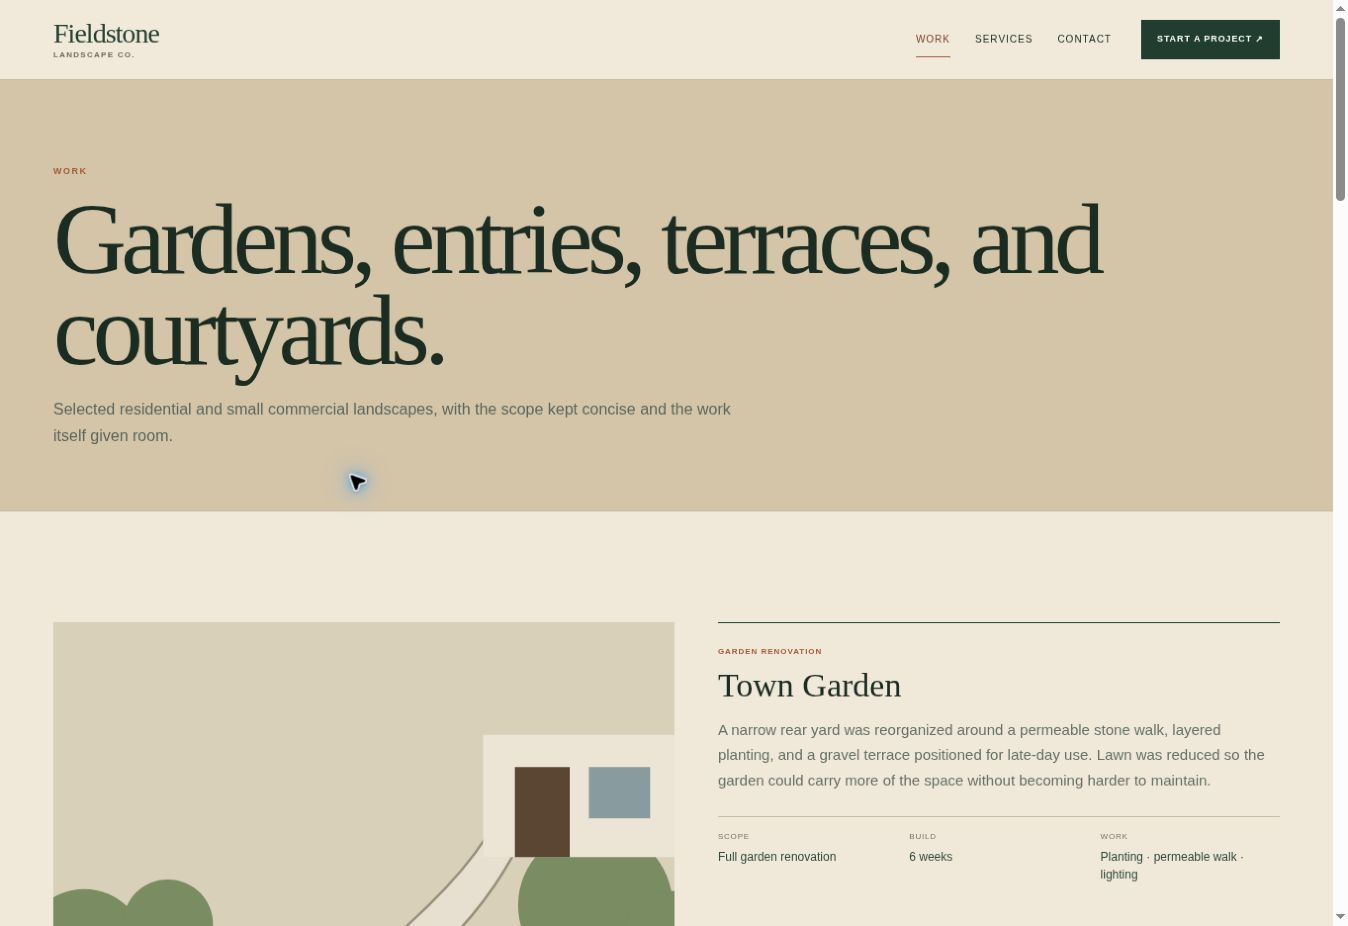
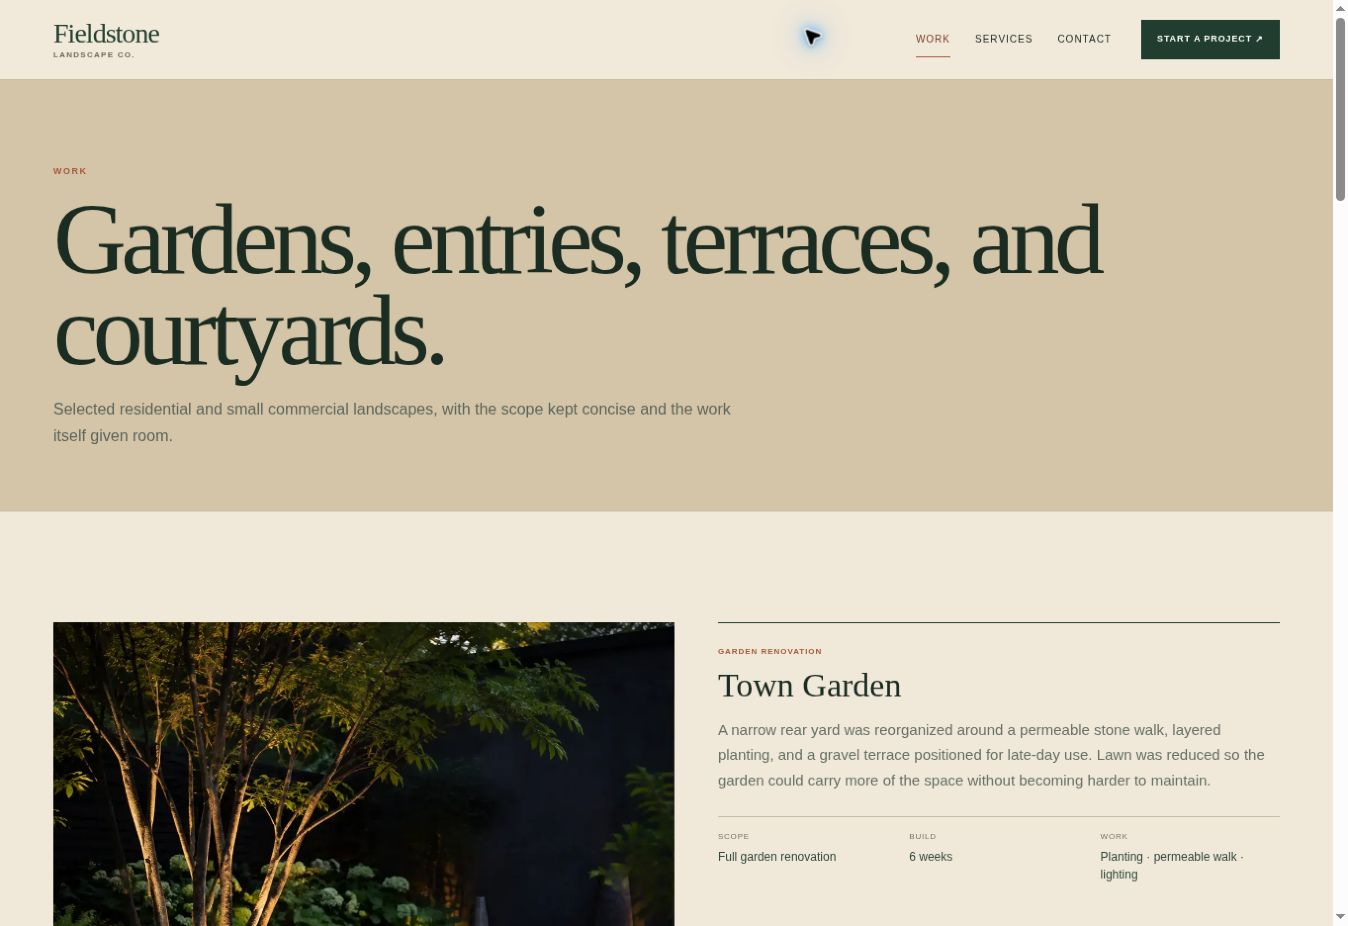
Refresh Fieldstone project imagery

Changed region(s): [[0.0312, 0.6652, 0.4985, 1.0], [0.2493, 0.4838, 0.2804, 0.5443], [0.592, 0.0302, 0.6231, 0.0605]]

diff --git a/projects/fieldstone-landscape/work.html b/projects/fieldstone-landscape/work.html
@@ -11,12 +11,12 @@
 </div></header>
 <main id="main-content">
 <section class="page-hero"><div class="wrap"><div class="eyebrow">Work</div><h1>Gardens, entries, terraces, and courtyards.</h1><p>Selected residential and small commercial landscapes, with the scope kept concise and the work itself given room.</p></div></section>
-<section class="section"><div class="wrap work-list"><article class="work-card" id="town-garden"><figure><img src="assets/garden.svg" alt="Layered town garden with a curving walk"></figure><div class="copy"><small>Garden renovation</small><h2>Town Garden</h2><p>A narrow rear yard was reorganized around a permeable stone walk, layered planting, and a gravel terrace positioned for late-day use. Lawn was reduced so the garden could carry more of the space without becoming harder to maintain.</p>
-<dl class="project-facts"><div><dt>Scope</dt><dd>Full garden renovation</dd></div><div><dt>Build</dt><dd>6 weeks</dd></div><div><dt>Work</dt><dd>Planting · permeable walk · lighting</dd></div></dl></div></article><article class="work-card" id="stone-entry"><figure><img src="assets/stone.svg" alt="Stone entry steps through green planting"></figure><div class="copy"><small>Entry + retaining</small><h2>Stone Entry</h2><p>A sloped front approach was rebuilt with broad stone steps, a low retaining edge, and planting that softens the grade without hiding the architecture. Low-voltage lighting carries the entry through evening use.</p>
-<dl class="project-facts"><div><dt>Scope</dt><dd>Entry + retaining</dd></div><div><dt>Build</dt><dd>4 weeks</dd></div><div><dt>Work</dt><dd>Stone steps · wall · lighting</dd></div></dl></div></article><article class="work-card" id="hill-terrace"><figure><img src="assets/terrace.svg" alt="Terraced garden across a sloped property"></figure><div class="copy"><small>Terrace + planting</small><h2>Hill Terrace</h2><p>Three garden levels turn a difficult slope into a sequence of usable spaces. Stone connections, loose grasses, and a compact dining terrace keep the grade visible while making it easier to move through.</p>
-<dl class="project-facts"><div><dt>Scope</dt><dd>Terrace + planting</dd></div><div><dt>Build</dt><dd>7 weeks</dd></div><div><dt>Work</dt><dd>Terraces · planting · drainage</dd></div></dl></div></article><article class="work-card" id="studio-court"><figure><img src="assets/stone.svg" alt="Compact commercial courtyard with stonework"></figure><div class="copy"><small>Commercial courtyard</small><h2>Studio Court</h2><p>A small office courtyard was simplified into a durable arrival space with restrained paving, low-maintenance planting, and a clearer route from street to entrance. The palette is quiet enough to sit behind the building rather than compete with it.</p>
-<dl class="project-facts"><div><dt>Scope</dt><dd>Commercial courtyard</dd></div><div><dt>Build</dt><dd>3 weeks</dd></div><div><dt>Work</dt><dd>Paving · planting · entry</dd></div></dl></div></article><article class="work-card" id="dining-court"><figure><img src="assets/terrace.svg" alt="Outdoor dining terrace with planting"></figure><div class="copy"><small>Outdoor dining</small><h2>Dining Court</h2><p>A rear terrace combines stone paving, a seat wall, a defined grill zone, and concealed drainage in one compact construction. Planting at the edges keeps the room enclosed without making it feel closed in.</p>
-<dl class="project-facts"><div><dt>Scope</dt><dd>Outdoor dining</dd></div><div><dt>Build</dt><dd>5 weeks</dd></div><div><dt>Work</dt><dd>Paving · seat wall · drainage</dd></div></dl></div></article><article class="work-card" id="corner-shop"><figure><img src="assets/garden.svg" alt="Retail frontage with layered planting"></figure><div class="copy"><small>Retail frontage</small><h2>Corner Shop Garden</h2><p>Planters, entry lighting, and durable seasonal planting give a neighborhood storefront a more settled edge without narrowing the sidewalk or obscuring the windows. The work is designed for quick seasonal upkeep.</p>
+<section class="section"><div class="wrap work-list"><article class="work-card" id="town-garden"><figure><img src="assets/project-town-garden.webp" alt="Intimate garden terrace with curved stone seating and mature planting"></figure><div class="copy"><small>Garden renovation</small><h2>Town Garden</h2><p>A narrow rear yard was reorganized around a permeable stone walk, layered planting, and a gravel terrace positioned for late-day use. Lawn was reduced so the garden could carry more of the space without becoming harder to maintain.</p>
+<dl class="project-facts"><div><dt>Scope</dt><dd>Full garden renovation</dd></div><div><dt>Build</dt><dd>6 weeks</dd></div><div><dt>Work</dt><dd>Planting · permeable walk · lighting</dd></div></dl></div></article><article class="work-card" id="stone-entry"><figure><img src="assets/project-stone-entry.webp" alt="Broad stone entry steps, a low retaining wall, and layered shade planting"></figure><div class="copy"><small>Entry + retaining</small><h2>Stone Entry</h2><p>A sloped front approach was rebuilt with broad stone steps, a low retaining edge, and planting that softens the grade without hiding the architecture. Low-voltage lighting carries the entry through evening use.</p>
+<dl class="project-facts"><div><dt>Scope</dt><dd>Entry + retaining</dd></div><div><dt>Build</dt><dd>4 weeks</dd></div><div><dt>Work</dt><dd>Stone steps · wall · lighting</dd></div></dl></div></article><article class="work-card" id="hill-terrace"><figure><img src="assets/project-hill-terrace.webp" alt="Sloped garden organized into fieldstone terraces with steps, grasses, and a dining area"></figure><div class="copy"><small>Terrace + planting</small><h2>Hill Terrace</h2><p>Three garden levels turn a difficult slope into a sequence of usable spaces. Stone connections, loose grasses, and a compact dining terrace keep the grade visible while making it easier to move through.</p>
+<dl class="project-facts"><div><dt>Scope</dt><dd>Terrace + planting</dd></div><div><dt>Build</dt><dd>7 weeks</dd></div><div><dt>Work</dt><dd>Terraces · planting · drainage</dd></div></dl></div></article><article class="work-card" id="studio-court"><figure><img src="assets/project-studio-court.webp" alt="Compact planted courtyard with dark paving, a stone bench, and multi-stem trees"></figure><div class="copy"><small>Commercial courtyard</small><h2>Studio Court</h2><p>A small office courtyard was simplified into a durable arrival space with restrained paving, low-maintenance planting, and a clearer route from street to entrance. The palette is quiet enough to sit behind the building rather than compete with it.</p>
+<dl class="project-facts"><div><dt>Scope</dt><dd>Commercial courtyard</dd></div><div><dt>Build</dt><dd>3 weeks</dd></div><div><dt>Work</dt><dd>Paving · planting · entry</dd></div></dl></div></article><article class="work-card" id="dining-court"><figure><img src="assets/project-dining-court.webp" alt="Stone dining terrace with a seat wall, grill, concealed drainage, and layered planting"></figure><div class="copy"><small>Outdoor dining</small><h2>Dining Court</h2><p>A rear terrace combines stone paving, a seat wall, a defined grill zone, and concealed drainage in one compact construction. Planting at the edges keeps the room enclosed without making it feel closed in.</p>
+<dl class="project-facts"><div><dt>Scope</dt><dd>Outdoor dining</dd></div><div><dt>Build</dt><dd>5 weeks</dd></div><div><dt>Work</dt><dd>Paving · seat wall · drainage</dd></div></dl></div></article><article class="work-card" id="corner-shop"><figure><img src="assets/project-corner-shop.webp" alt="Neighborhood storefront with dark planters, layered planting, and entry lighting"></figure><div class="copy"><small>Retail frontage</small><h2>Corner Shop Garden</h2><p>Planters, entry lighting, and durable seasonal planting give a neighborhood storefront a more settled edge without narrowing the sidewalk or obscuring the windows. The work is designed for quick seasonal upkeep.</p>
 <dl class="project-facts"><div><dt>Scope</dt><dd>Retail frontage</dd></div><div><dt>Build</dt><dd>2 weeks</dd></div><div><dt>Work</dt><dd>Planters · lighting · seasonal planting</dd></div></dl></div></article></div></section>
 <section class="cta"><div class="wrap cta-grid"><div><div class="eyebrow" style="color:#fff">Project inquiries</div><h2>Planning something similar?</h2></div><a class="button light" href="contact.html">Start a project</a></div></section>
 </main>

diff --git a/projects/fieldstone-landscape/services.html b/projects/fieldstone-landscape/services.html
@@ -4,6 +4,6 @@
 <header class="site-header"><div class="wrap nav"><a class="brand" href="index.html">Fieldstone<span>Landscape Co.</span></a><nav class="nav-links" id="primary-navigation" aria-label="Primary navigation"><a href="work.html">Work</a><a href="services.html">Services</a><a href="contact.html">Contact</a></nav><a class="nav-cta" href="contact.html">Start a project ↗</a><button class="menu" type="button" aria-expanded="false" aria-controls="primary-navigation" aria-label="Toggle menu">Menu</button></div></header>
 <main id="main-content"><section class="page-hero"><div class="wrap"><div class="eyebrow">Services</div><h1>One landscape, fewer handoffs.</h1><p>Design, construction, planting, and the details that connect them stay coordinated as one scope.</p></div></section>
 <section class="section"><div class="wrap service-list"><article class="service-block"><span>01</span><div><h2>Landscape Design</h2><p>Planning for new landscapes, major renovations, and spaces that need a clear direction before construction begins.</p></div><ul><li>Site assessment and base planning</li><li>Concept layouts and spatial planning</li><li>Planting and material palettes</li><li>Lighting and irrigation direction</li><li>Phasing and construction scope</li></ul></article><article class="service-block"><span>02</span><div><h2>Construction</h2><p>Site work and installation coordinated from earthwork through the finished landscape.</p></div><ul><li>Grading and drainage</li><li>Patios, walks, and garden walls</li><li>Steps, edging, and gravel work</li><li>Planting and soil preparation</li><li>Low-voltage lighting</li></ul></article><article class="service-block"><span>03</span><div><h2>Planting &amp; Garden Care</h2><p>Planting installation and selective ongoing care for landscapes that benefit from a consistent hand.</p></div><ul><li>Planting installation and establishment</li><li>Spring and fall garden work</li><li>Structural pruning</li><li>Perennial division and editing</li><li>Seasonal planting and garden review</li></ul></article></div></section>
-<section class="section materials"><div class="wrap material-grid"><figure><img src="assets/stone.svg" alt="Stone steps and layered planting"></figure><div><div class="eyebrow" style="color:#efaf8f">Materials</div><h2>Fewer materials, used well.</h2><p>Fieldstone favors materials that weather naturally and can be maintained or repaired without remaking the whole space.</p><div class="material-list"><span>Stone + gravel</span><span>Permeable surfaces</span><span>Native + adapted planting</span><span>Low-voltage lighting</span></div></div></div></section>
+<section class="section materials"><div class="wrap material-grid"><figure><img src="../../assets/fieldstone-stone-steps.webp" alt="Weathered stone steps set into restrained planting"></figure><div><div class="eyebrow" style="color:#efaf8f">Materials</div><h2>Fewer materials, used well.</h2><p>Fieldstone favors materials that weather naturally and can be maintained or repaired without remaking the whole space.</p><div class="material-list"><span>Stone + gravel</span><span>Permeable surfaces</span><span>Native + adapted planting</span><span>Low-voltage lighting</span></div></div></div></section>
 <section class="cta"><div class="wrap cta-grid"><div><div class="eyebrow" style="color:#fff">Project inquiries</div><h2>Discuss the scope.</h2></div><a class="button light" href="contact.html">Contact Fieldstone</a></div></section></main>
 <footer><div class="wrap footer-grid"><div class="footer-brand"><strong>Fieldstone</strong><span>Landscape Co.</span></div><div class="footer-links"><a href="work.html">Work</a><a href="services.html">Services</a><a href="contact.html">Contact</a></div><div class="footer-meta">Design · Build · Garden care<br>© 2026 Fieldstone Landscape Co.</div></div></footer><script src="site.js?v=2"></script></body></html>

diff --git a/projects/fieldstone-landscape/index.html b/projects/fieldstone-landscape/index.html
@@ -15,12 +15,12 @@
 <h1>Outdoor spaces that get better with use.</h1>
 <p>Fieldstone designs and builds gardens, terraces, entries, and working yards with the site, materials, and planting considered together.</p>
 <div class="actions"><a class="button light" href="work.html">View work</a><a class="button ghost" href="contact.html">Start a project</a></div></div>
-<figure class="hero-media"><img src="../../assets/fieldstone-garden-wide.webp" alt="Curved stone seating around a mature tree in a contemporary garden at dusk"></figure></section>
+<figure class="hero-media"><img src="assets/hero-terraced-garden.webp" alt="Terraced garden with fieldstone walls, broad steps, layered planting, and a dining terrace"></figure></section>
 
 <section class="section"><div class="wrap"><div class="section-head section-head-single"><div><div class="eyebrow">Selected work</div><h2>Built landscapes.</h2></div></div>
 <div class="project-pair">
-<a class="project-card" href="work.html#town-garden"><figure><img src="assets/garden.svg" alt="Layered residential garden with a permeable path"></figure><div class="meta"><small>Garden renovation</small><h3>Town Garden</h3><p>Layered planting, a permeable walk, and a gravel terrace in a narrow rear yard.</p></div></a>
-<a class="project-card" href="work.html#hill-terrace"><figure><img src="../../assets/fieldstone-garden-wide.webp" alt="Curved stone seating and mature planting in a contemporary garden"></figure><div class="meta"><small>Terrace + planting</small><h3>Hill Terrace</h3><p>Three connected levels with stone, grasses, and a compact dining terrace.</p></div></a>
+<a class="project-card" href="work.html#town-garden"><figure><img src="assets/project-town-garden.webp" alt="Intimate garden terrace with curved stone seating and mature planting"></figure><div class="meta"><small>Garden renovation</small><h3>Town Garden</h3><p>Layered planting, a permeable walk, and a gravel terrace in a narrow rear yard.</p></div></a>
+<a class="project-card" href="work.html#hill-terrace"><figure><img src="assets/project-hill-terrace.webp" alt="Sloped garden organized into fieldstone terraces with steps, grasses, and a dining area"></figure><div class="meta"><small>Terrace + planting</small><h3>Hill Terrace</h3><p>Three connected levels with stone, grasses, and a compact dining terrace.</p></div></a>
 </div><a class="section-link" href="work.html">View all work →</a></div></section>
 
 <section class="section alt"><div class="wrap"><div class="section-head"><div><div class="eyebrow">Services</div><h2>Design, build, plant.</h2></div>
@@ -31,7 +31,7 @@
 <article class="service-preview"><span>03</span><h3>Planting &amp; Garden Care</h3><p>Planting installation, pruning, seasonal work, and selective stewardship of established gardens.</p></article>
 </div><a class="section-link" href="services.html">View services →</a></div></section>
 
-<section class="section dark"><div class="wrap firm-grid"><figure><img src="../../assets/fieldstone-stone-steps.webp" alt="Weathered stone steps set into restrained planting"></figure>
+<section class="section dark"><div class="wrap firm-grid"><figure><img src="assets/firm-site-study.webp" alt="Two landscape professionals reviewing plans and stone samples on site"></figure>
 <div class="firm-copy"><div class="eyebrow">Fieldstone</div><p>Landscape design and construction treated as one piece of work.</p>
 <p class="small">Stone, grade, drainage, planting, and light are considered together so the finished landscape feels settled into the property rather than applied to it.</p></div></div></section>
 
